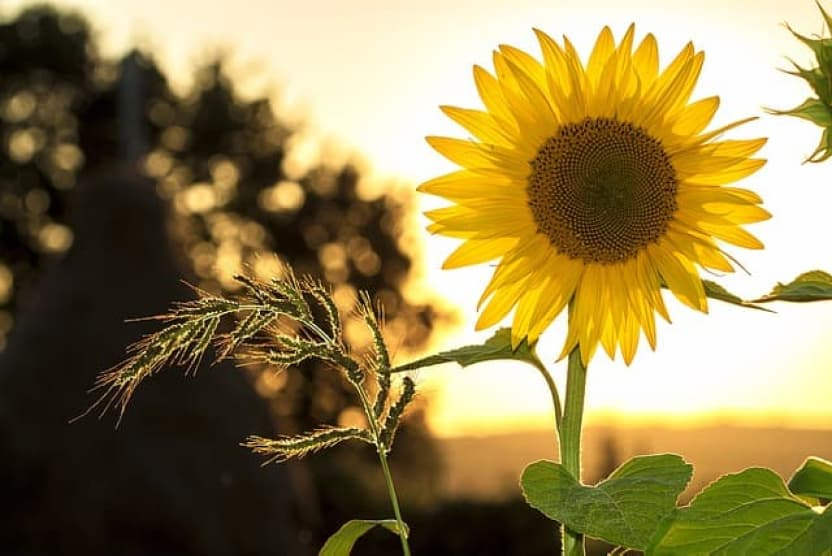
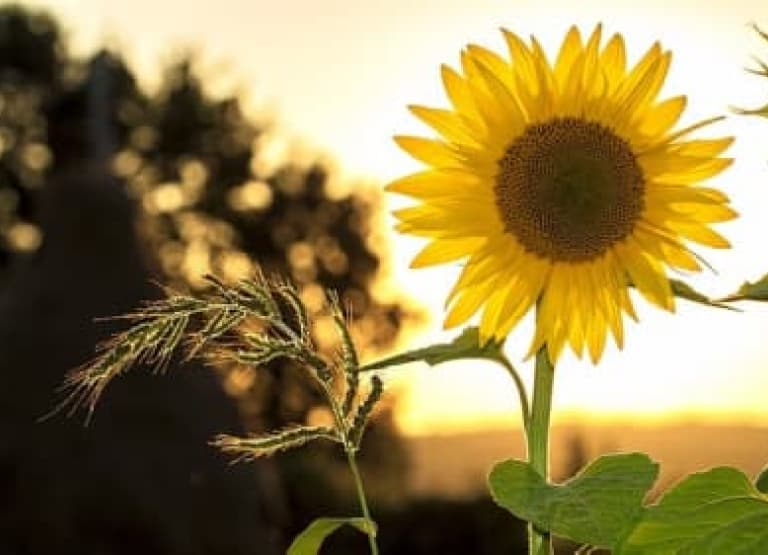
changed images

diff --git a/src/partials/pages/index/main/hero.html b/src/partials/pages/index/main/hero.html
@@ -61,7 +61,7 @@
             "
             media="(min-width: 1440px)"
             alt="bads"
-            width="688"
+            width="100%"
           />
           <source
             srcset="
@@ -70,21 +70,21 @@
             "
             media="(min-width: 768px)"
             alt="bads"
-            width="416"
+            width="100%"
           />
           <source
             srcset="
-              ./src/images/hero/badsMd.jpg    1x,
-              ./src/images/hero/badsMd@2x.jpg 2x
+              ./src/images/hero/badsSm.jpg    1x,
+              ./src/images/hero/badsSm@2x.jpg 2x
             "
             media="(max-width: 767px)"
             alt="bads"
-            width="416"
+            width="100%"
           />
-          <img src="./src/images/hero/badsMd.jpg" alt="bads" />
+          <img src="./src/images/hero/badsSm.jpg" alt="bads" width="100%" />
         </picture>
       </div>
-      <div class="relative">
+      <div class="relative bg-primaryBg">
         <picture class="float-right">
           <source
             srcset="
@@ -93,7 +93,7 @@
             "
             media="(min-width: 1440px)"
             alt="flower"
-            width="1440"
+            width="100%"
           />
           <source
             srcset="
@@ -102,7 +102,7 @@
             "
             media="(min-width: 768px)"
             alt="flower"
-            width="768"
+            width="100%"
           />
           <source
             srcset="
@@ -111,12 +111,12 @@
             "
             media="(max-width: 767px)"
             alt="flower"
-            width="420"
+            width="100%"
           />
-          <img src="./src/images/hero/flowerSm.jpg" alt="flower" width="420"/>
+          <img src="./src/images/hero/flowerSm.jpg" alt="flower" width="100%" />
         </picture>
       </div>
-      <div class="relative">
+      <div class="relative bg-primaryBg">
         <picture class="float-right">
           <source
             srcset="
@@ -125,7 +125,7 @@
             "
             media="(min-width: 1440px)"
             alt="avenue"
-            width="1440"
+            width="100%"
           />
           <source
             srcset="
@@ -134,7 +134,7 @@
             "
             media="(min-width: 768px)"
             alt="avenue"
-            width="768"
+            width="100%"
           />
           <source
             srcset="
@@ -143,12 +143,12 @@
             "
             media="(max-width: 767px)"
             alt="avenue"
-            width="420"
+            width="100%"
           />
-          <img src="./src/images/hero/avenueSm.jpg" alt="avenue" width="420"/>
+          <img src="./src/images/hero/avenueSm.jpg" alt="avenue" width="100%" />
         </picture>
       </div>
-      <div class="relative">
+      <div class="relative bg-primaryBg">
         <picture class="float-right">
           <source
             srcset="
@@ -157,7 +157,7 @@
             "
             media="(min-width: 1440px)"
             alt="garden"
-            width="1440"
+            width="100%"
           />
           <source
             srcset="
@@ -166,7 +166,7 @@
             "
             media="(min-width: 768px)"
             alt="garden"
-            width="768"
+            width="100%"
           />
           <source
             srcset="
@@ -175,9 +175,9 @@
             "
             media="(max-width: 767px)"
             alt="garden"
-            width="420"
+            width="100%"
           />
-          <img src="./src/images/hero/gardenSm.jpg" alt="garden" width="420"/>
+          <img src="./src/images/hero/gardenSm.jpg" alt="garden" width="100%" />
         </picture>
       </div>
     </div>
